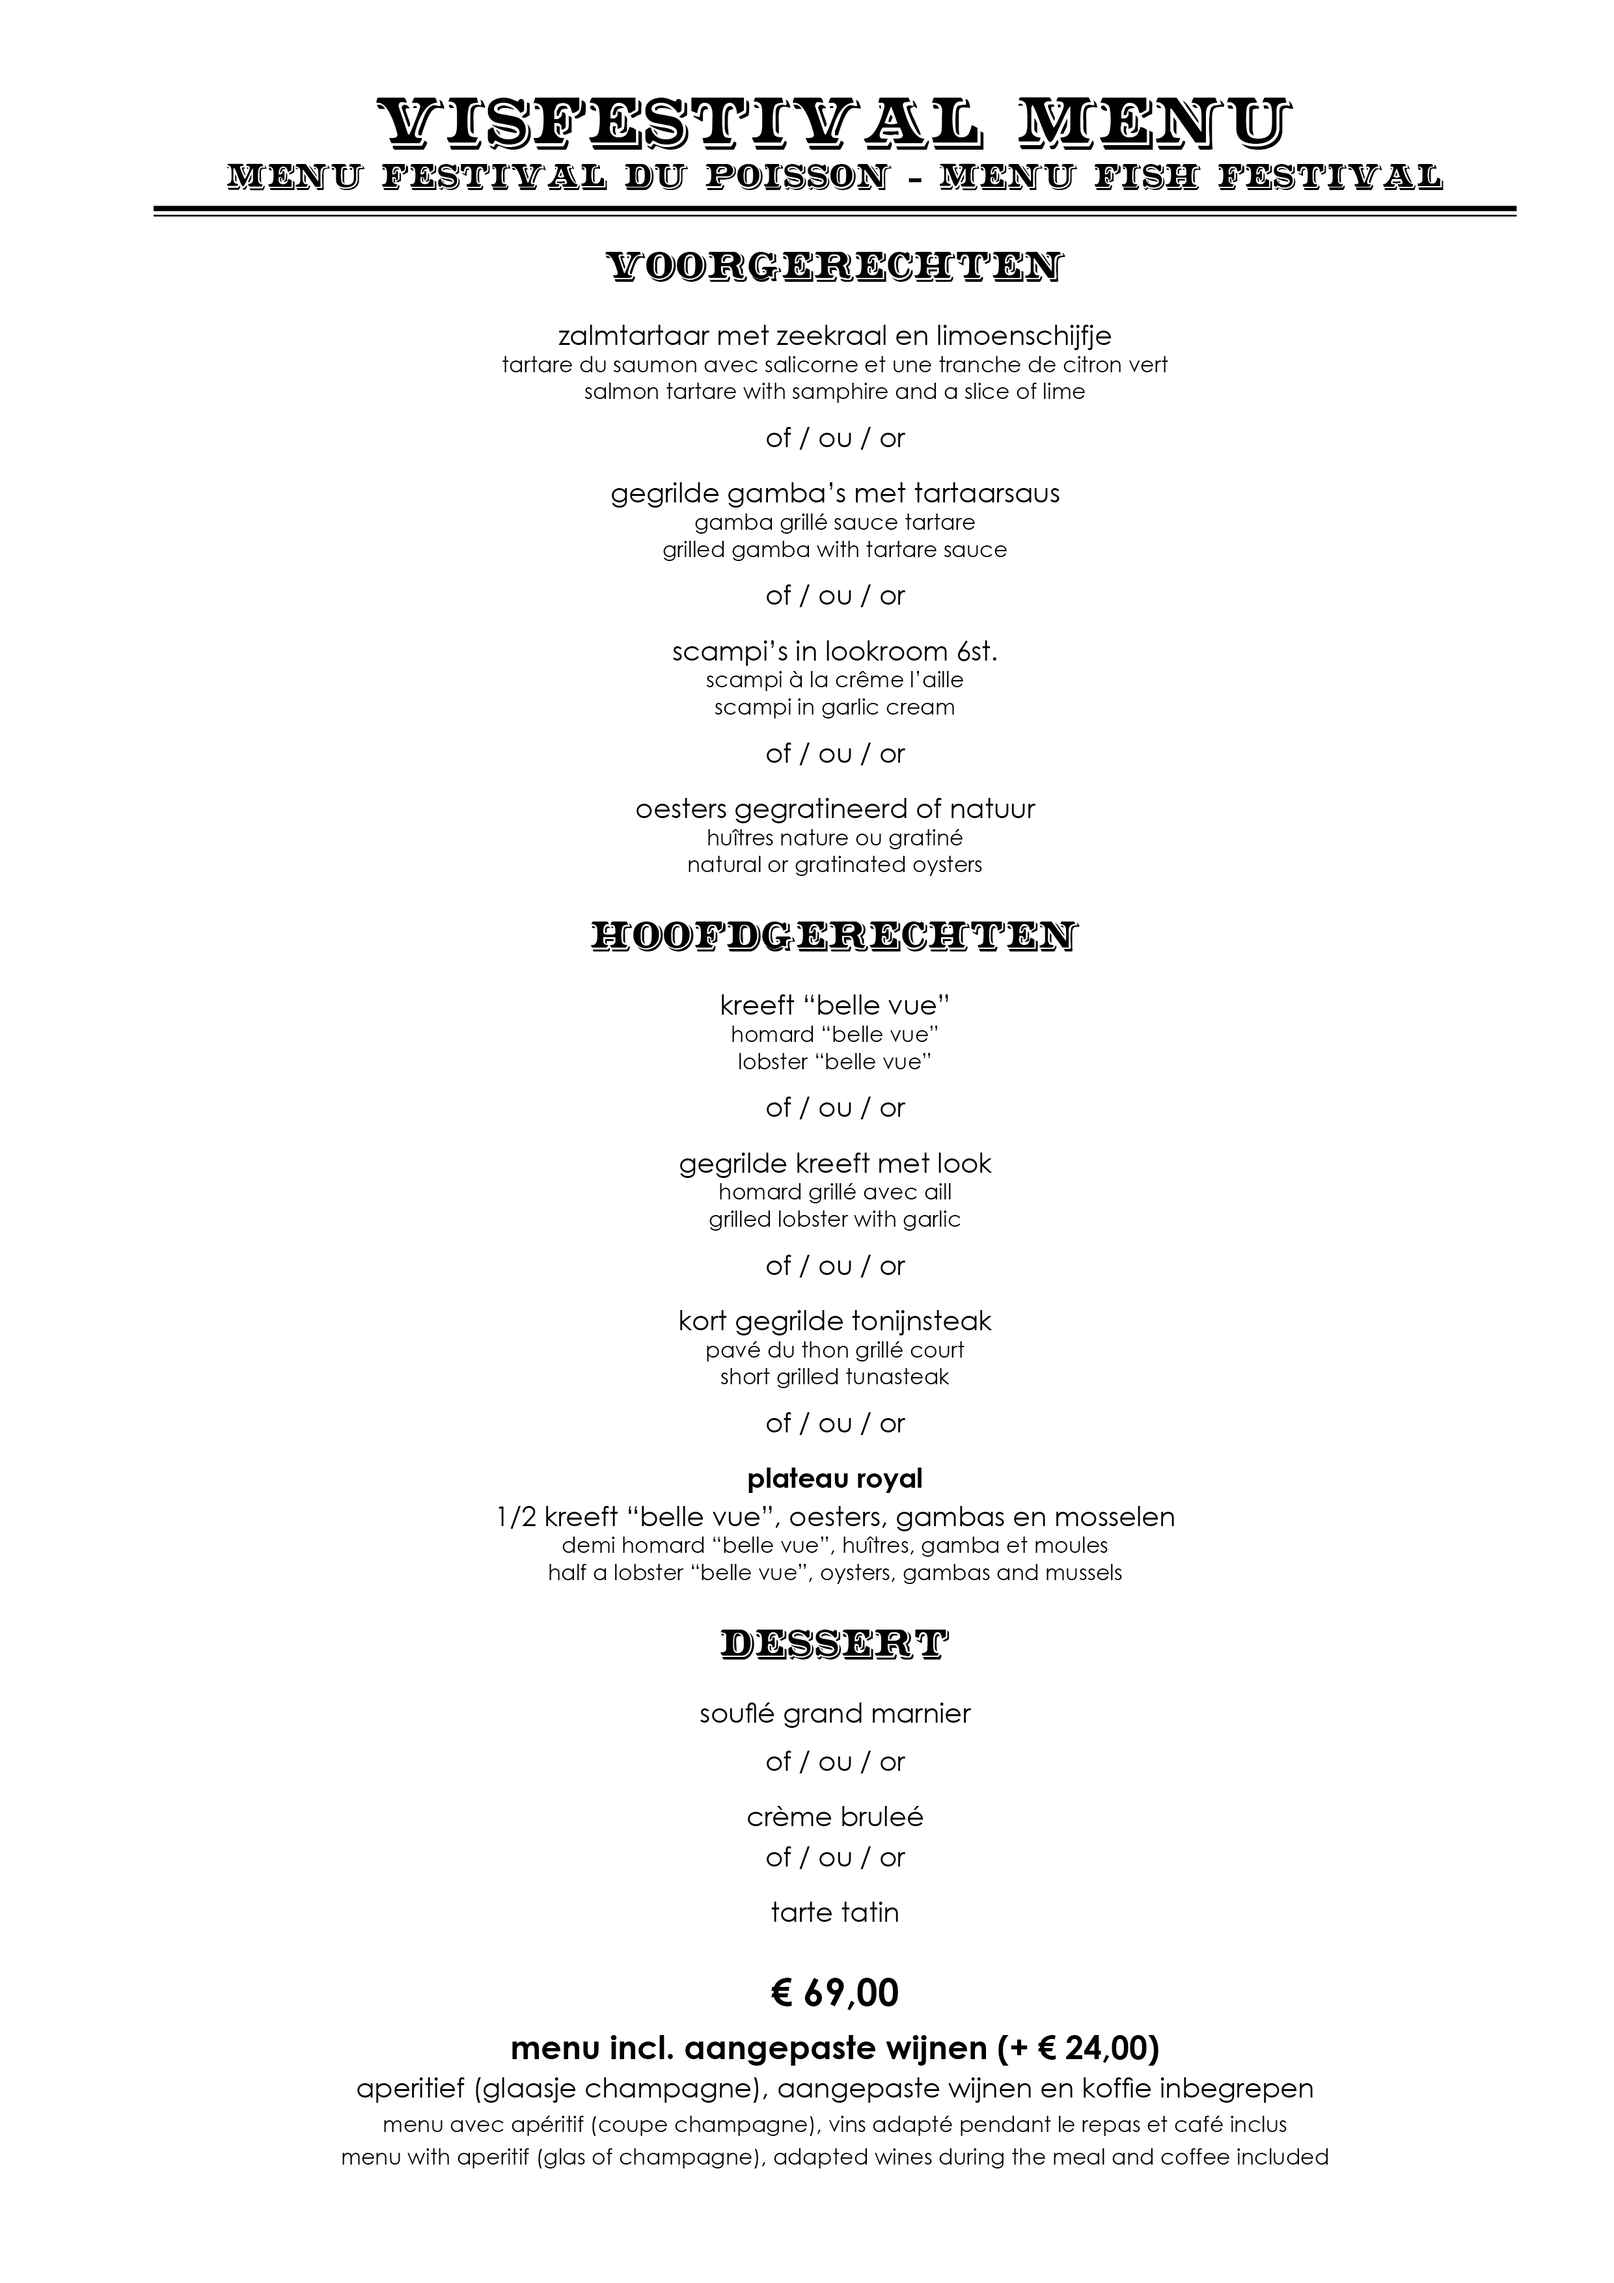
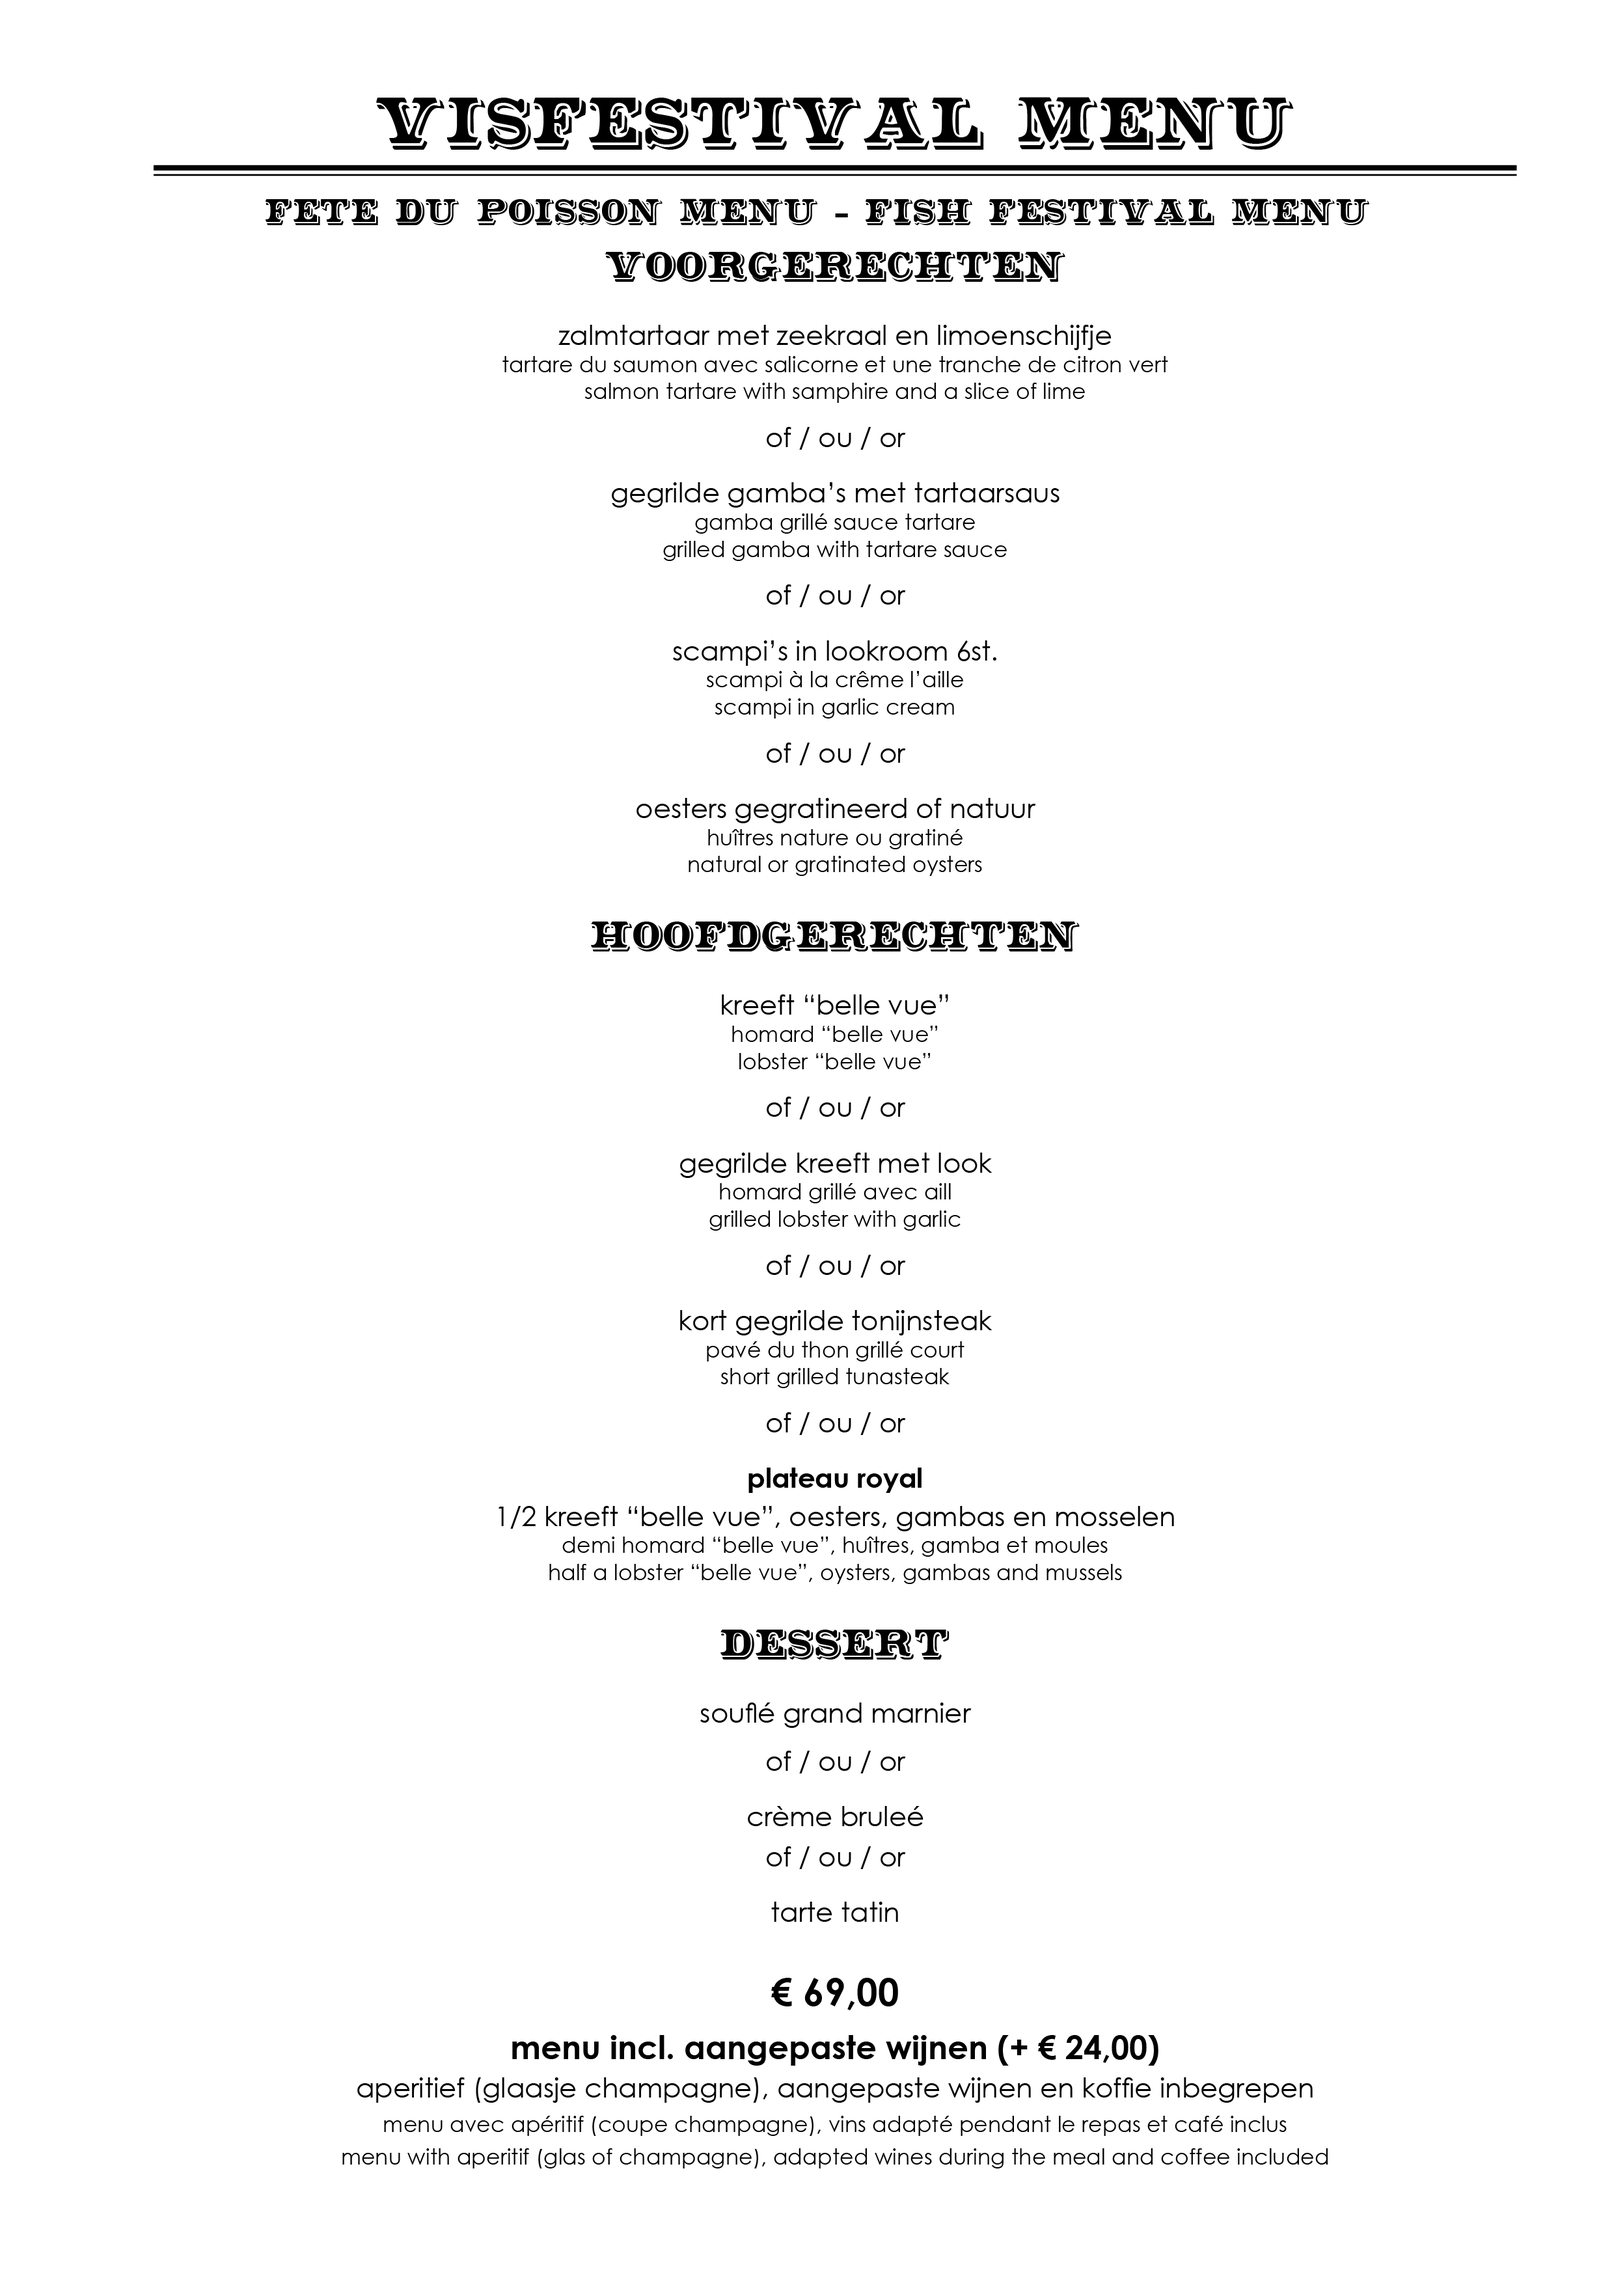
menu fix

Changed region(s): [[0.0931, 0.0621, 0.9315, 0.1243]]

diff --git a/menu/index.html b/menu/index.html
@@ -153,9 +153,9 @@
             <a href="https://allergenen.sho-horeca.nl/kaart/brugge_pietje_pek_Allergenenkaart" target="_blank" class="filter-btn" id="kindermenu">
                 Allergenen
             </a>
-            <a class="filter-btn" id="wildkaart">
+            <!-- <a class="filter-btn" id="wildkaart">
                 Wildkaart
-            </a>
+            </a> -->
         </div>
     </div>
 </div>
